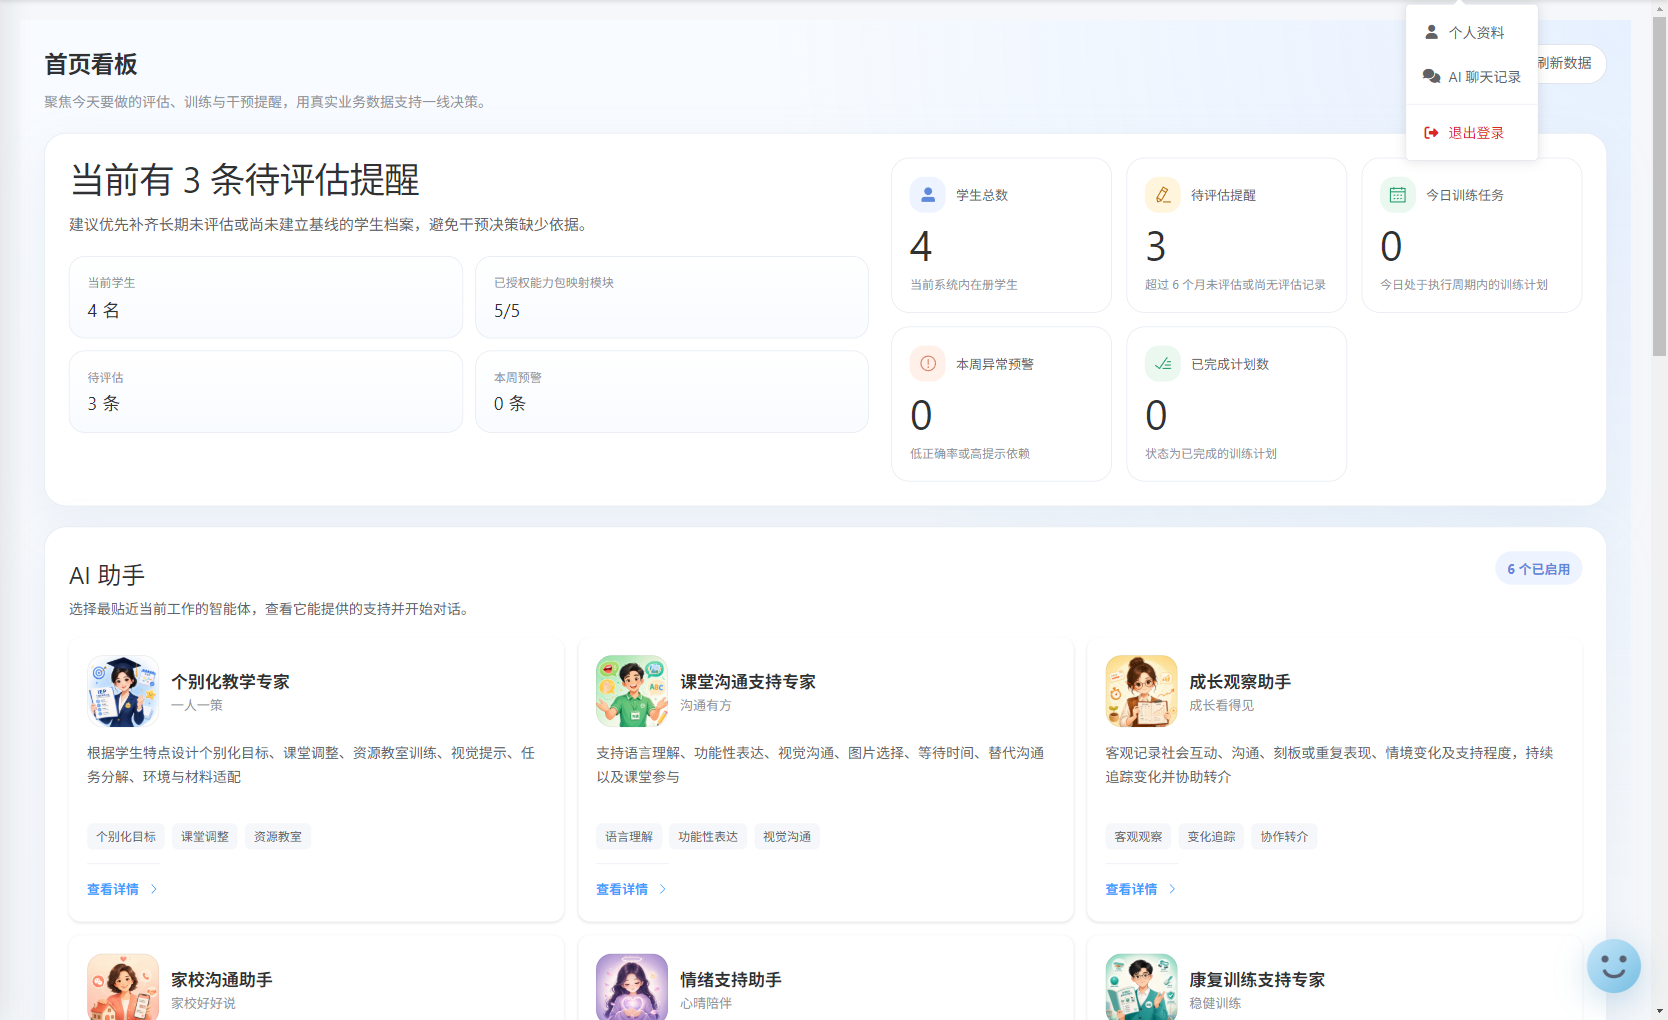
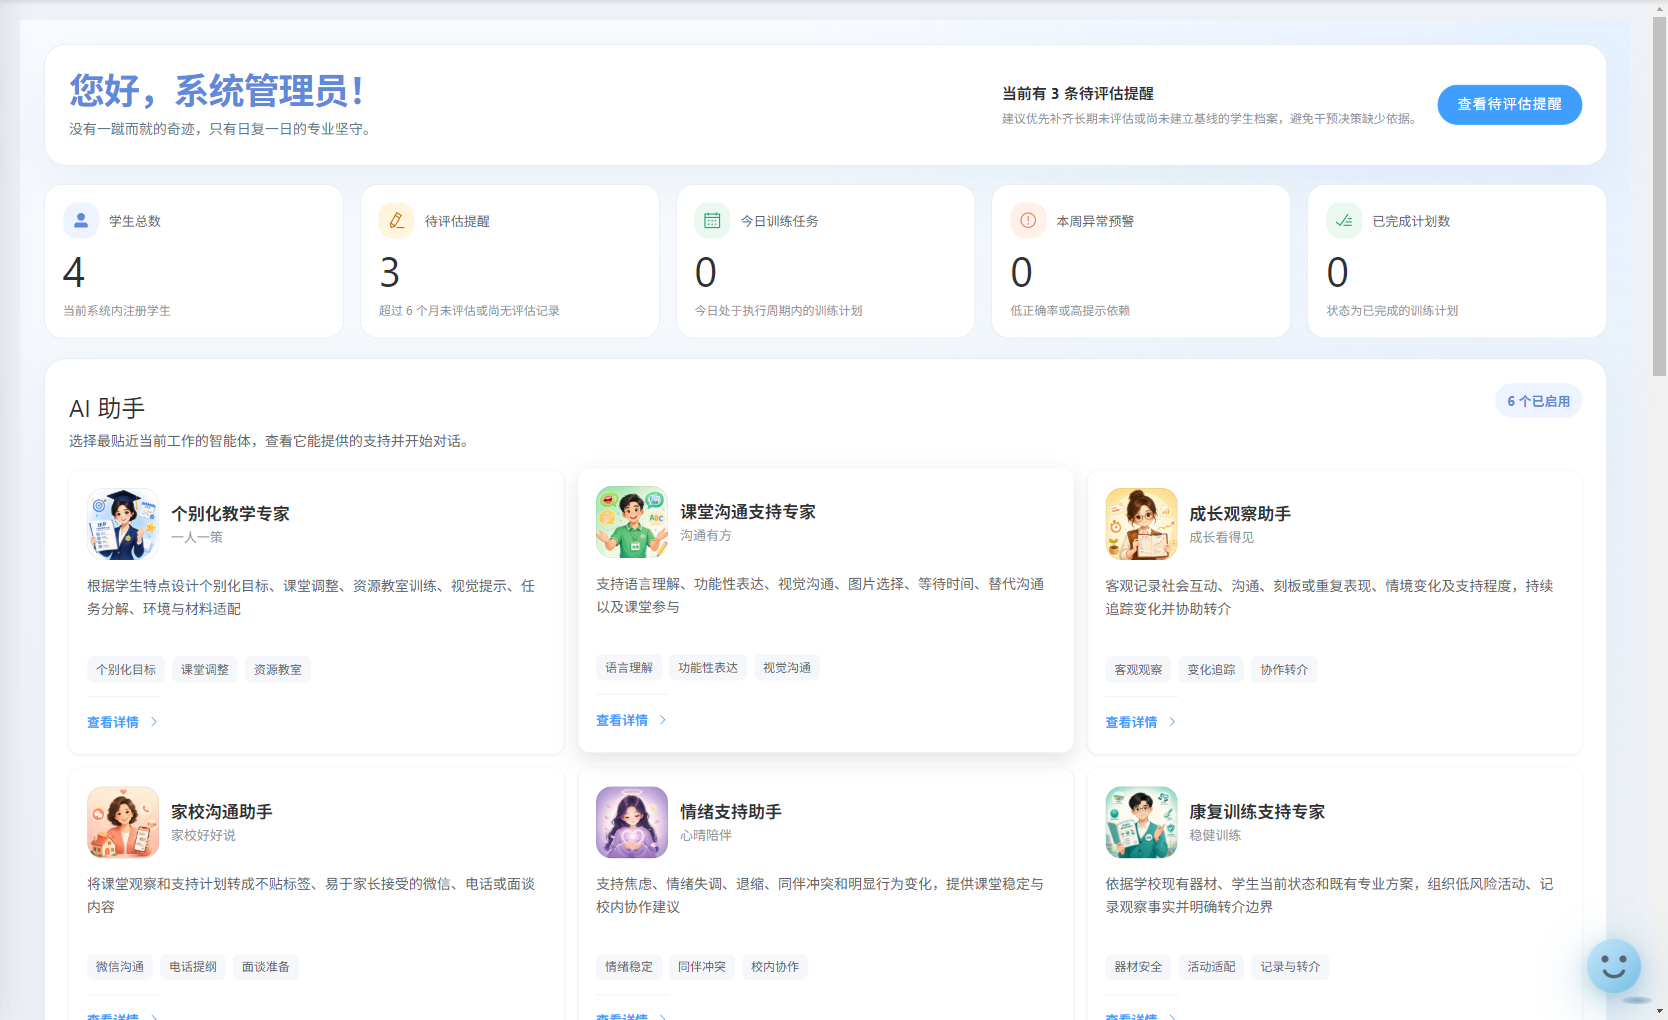
docs(manual): 同步首页看板重构截图与自动刷新文案
0866c42 移除首页页头 + 改静默自动刷新 + 主标题改品牌色后，首页族 8 张图作废（画面仍带
已删除的「首页看板」页头与「刷新数据」按钮），手册正文也仍写着「手动刷新」。

- 重拍 8 张：S001/S002/S007/S008/S009/S010/S011/S168（含场景 S168 的背景同为首页）
- 采集 run：dashboard-refresh-20260920（S001/S007/S168）、dashboard-refresh-2-20260920（S002/S008/S009/S010/S011）
  拆分重跑原因：同会话先采 S007（用户菜单浮层）会把浮层残留在后续场景画面里，首批 S008 即被污染
- 落盘：promote-user-manual-screenshots.mjs --ids … --allow-formal-output；approvals 8 条 sha256/runId 更新
- 文案：用户手册 :143「手动刷新当前首页数据」→ 切回本页立即刷新 + 停留期间每 3 分钟静默更新
- 文档：基线 §4.2 记录重拍批次与「S007 必须分批采集」的采集纪律；CHANGELOG 记录
- 校验：verify-approved-screenshots 217 通过；manual:screenshots:check 217 场景 / 0 pending

diff --git a/docs/CHANGELOG.md b/docs/CHANGELOG.md
@@ -4,6 +4,12 @@
 
 ---
 
+## [2026-09-20] 手册首页族截图重拍 + 自动刷新文案同步（首页看板重构收尾）
+- `docs/user-manual/screenshots/`：重拍 8 张受 `0866c42`（移除页头 + 静默自动刷新 + 主标题品牌色）影响的图——S001/S002/S007/S008/S009/S010/S011/S168；旧图画面中仍带已删除的「首页看板」页头与「刷新数据」按钮，已作废
+- 采集：run `dashboard-refresh-20260920`（S001/S007/S168）与 `dashboard-refresh-2-20260920`（S002/S008/S009/S010/S011）；后者为拆分重跑——同会话先采 S007（用户菜单浮层）会把浮层留在后续场景画面里（首批 S008 即被污染）
+- 落盘：`promote-user-manual-screenshots.mjs --ids … --allow-formal-output`（重拍前需先删同名旧图：promote 对「同名但哈希不同」会拒绝覆盖）；approvals 8 条 sha256/runId 已更新，全量 217 条校验通过
+- `SCGP-星愿能力发展平台用户使用手册.md:143`：「手动刷新当前首页数据」改为自动刷新语义（切回本页立即刷新 + 停留期间每 3 分钟静默更新）
+
 ## [2026-09-20] 技术债：verify:core 陈旧契约断言对齐源码语义（含 2 条被短路隐藏的断言）
 - `scripts/tests/ai-message-edit-contract.test.mjs`：「生成报告入口位于附件按钮上方」的 `<div class="ai-composer">` 改为 `/<div\s+class="ai-composer"/`（class 现已与 `:class`/`@drag*`/`@paste` 同处一个多行标签）；同测试 `composer-utility-actions` 改为 `ai-composer-tools`——92a22e2（输入区两行布局重构）后旧 class 已不存在，此前被同测试前一条断言短路掩盖
 - `scripts/tests/login-theme-background.test.mjs`：

diff --git a/docs/user-manual/SCGP-用户手册截图采集与维护基线.md b/docs/user-manual/SCGP-用户手册截图采集与维护基线.md
@@ -284,3 +284,14 @@
 - 校验：217/217 槽位内容哈希 == 由 `3e871e6~1` 推导的期望值；`verify-user-manual-approved-screenshots.mjs` = 217 通过；`manual:screenshots:check` = 217 场景 / 0 pending。
 - 遗留（继承自修复前）：① S020/S021、S187/S188、S207/S208、S211/S213 四组相邻编号图片字节相同，与 §2「同一张图片不得重复用于多个编号」冲突，待专项甄别重拍；② 重编号条目的 runId 仅为溯源标签，旧 run 工件目录不可机械复核，**approvals 的 sha256 是与落盘图对齐的唯一锚点**；③ `promote-user-manual-screenshots.mjs` 必须带 `--ids` 运行，勿全表重放。
 - 推导过程与一次性脚本归档：`docs/archive/manual-screenshot-renumber-20260920/`。
+
+### 4.2 2026-09-20 首页族重拍（页头移除 + 静默自动刷新）
+
+受 `0866c42`（首页移除页头、主标题改品牌色、改静默自动刷新）影响，重拍 8 张：
+
+| run | 编号 | 说明 |
+|---|---|---|
+| `dashboard-refresh-20260920` | S001 / S007 / S168 | S007 是「用户菜单浮层」场景：**必须与其它场景分批采集**——同会话中它会把浮层残留在后续场景画面里（首批 S008 即被污染，已拆分重跑） |
+| `dashboard-refresh-2-20260920` | S002 / S008 / S009 / S010 / S011 | 拆分重跑批次 |
+
+落盘：`promote-user-manual-screenshots.mjs --ids … --allow-formal-output`；重拍前先删除同名旧图（promote 对「同名但哈希不同」拒绝覆盖，见 §2 防覆盖设计）。

diff --git a/docs/user-manual/SCGP-星愿能力发展平台用户使用手册.md b/docs/user-manual/SCGP-星愿能力发展平台用户使用手册.md
@@ -140,7 +140,7 @@
 - 已启用 AI 智能体卡片，可查看支持范围并开始对话。
 - 当天训练计划或日程提示，可直接进入对应训练资源。
 - 评估焦点、学生与训练等数据概览。
-- 手动刷新当前首页数据。
+- 首页数据自动保持最新：切回本页时立即刷新，停留期间每 3 分钟静默更新一次，无需手动刷新。
 
 首页显示内容取决于当前账号、已启用 AI 智能体、能力包和是否已有学生或计划数据。没有日程时会显示空状态，不代表数据异常。
 
